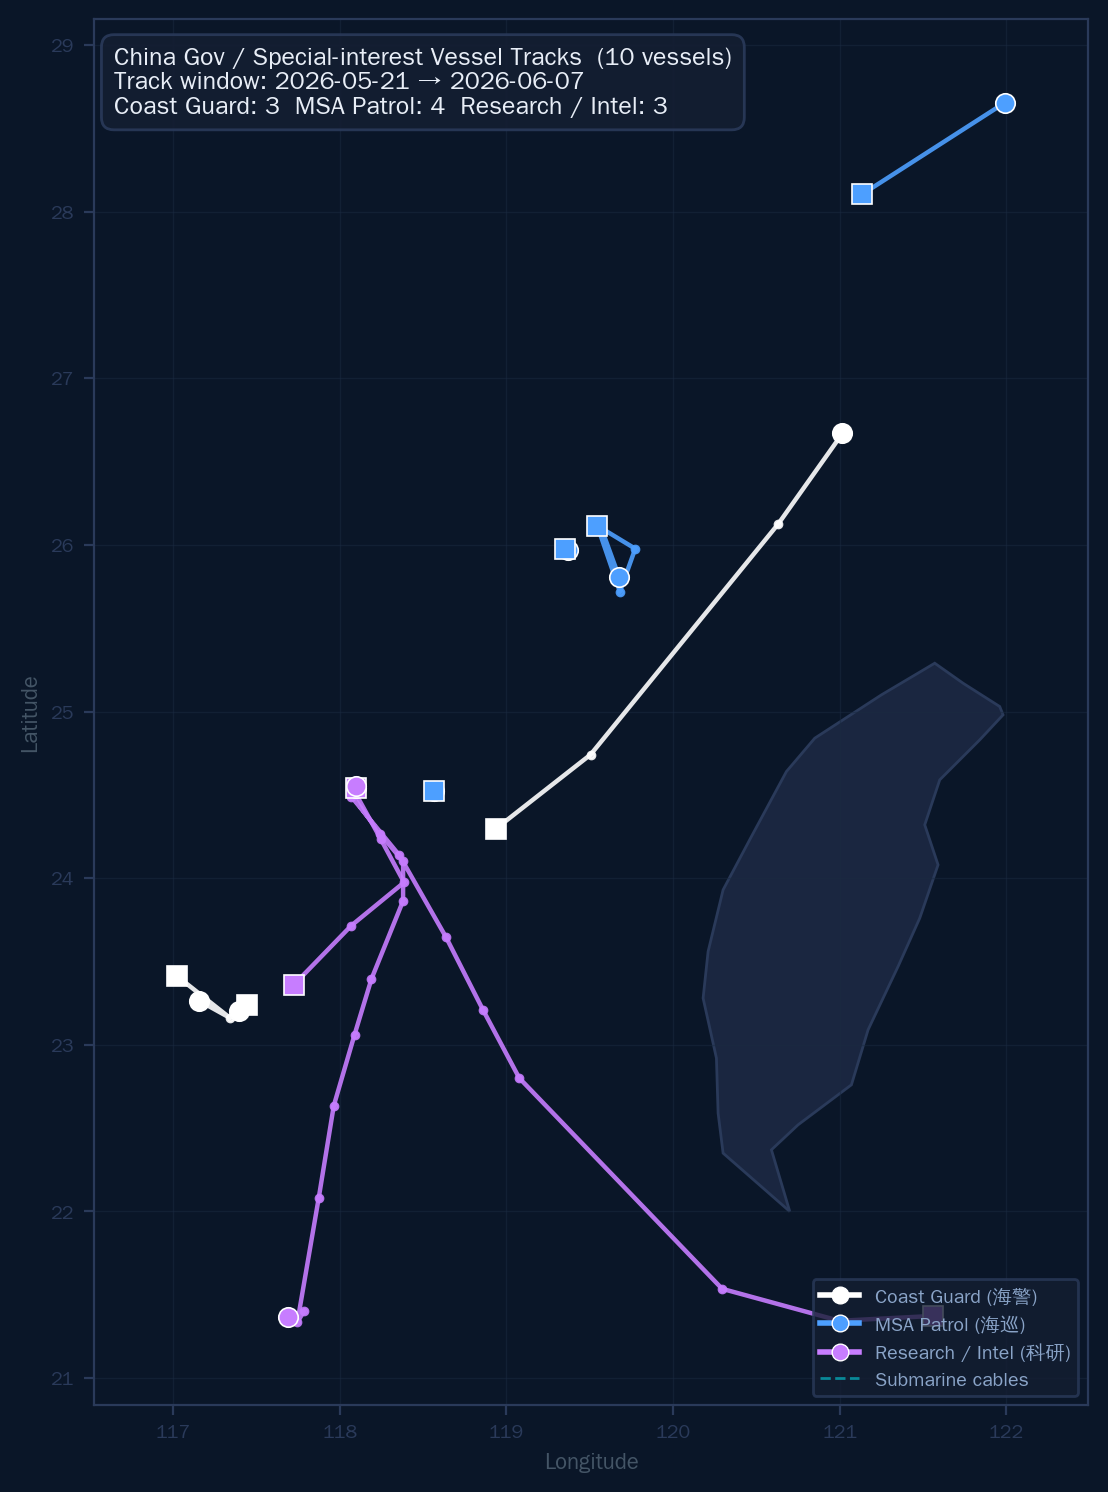
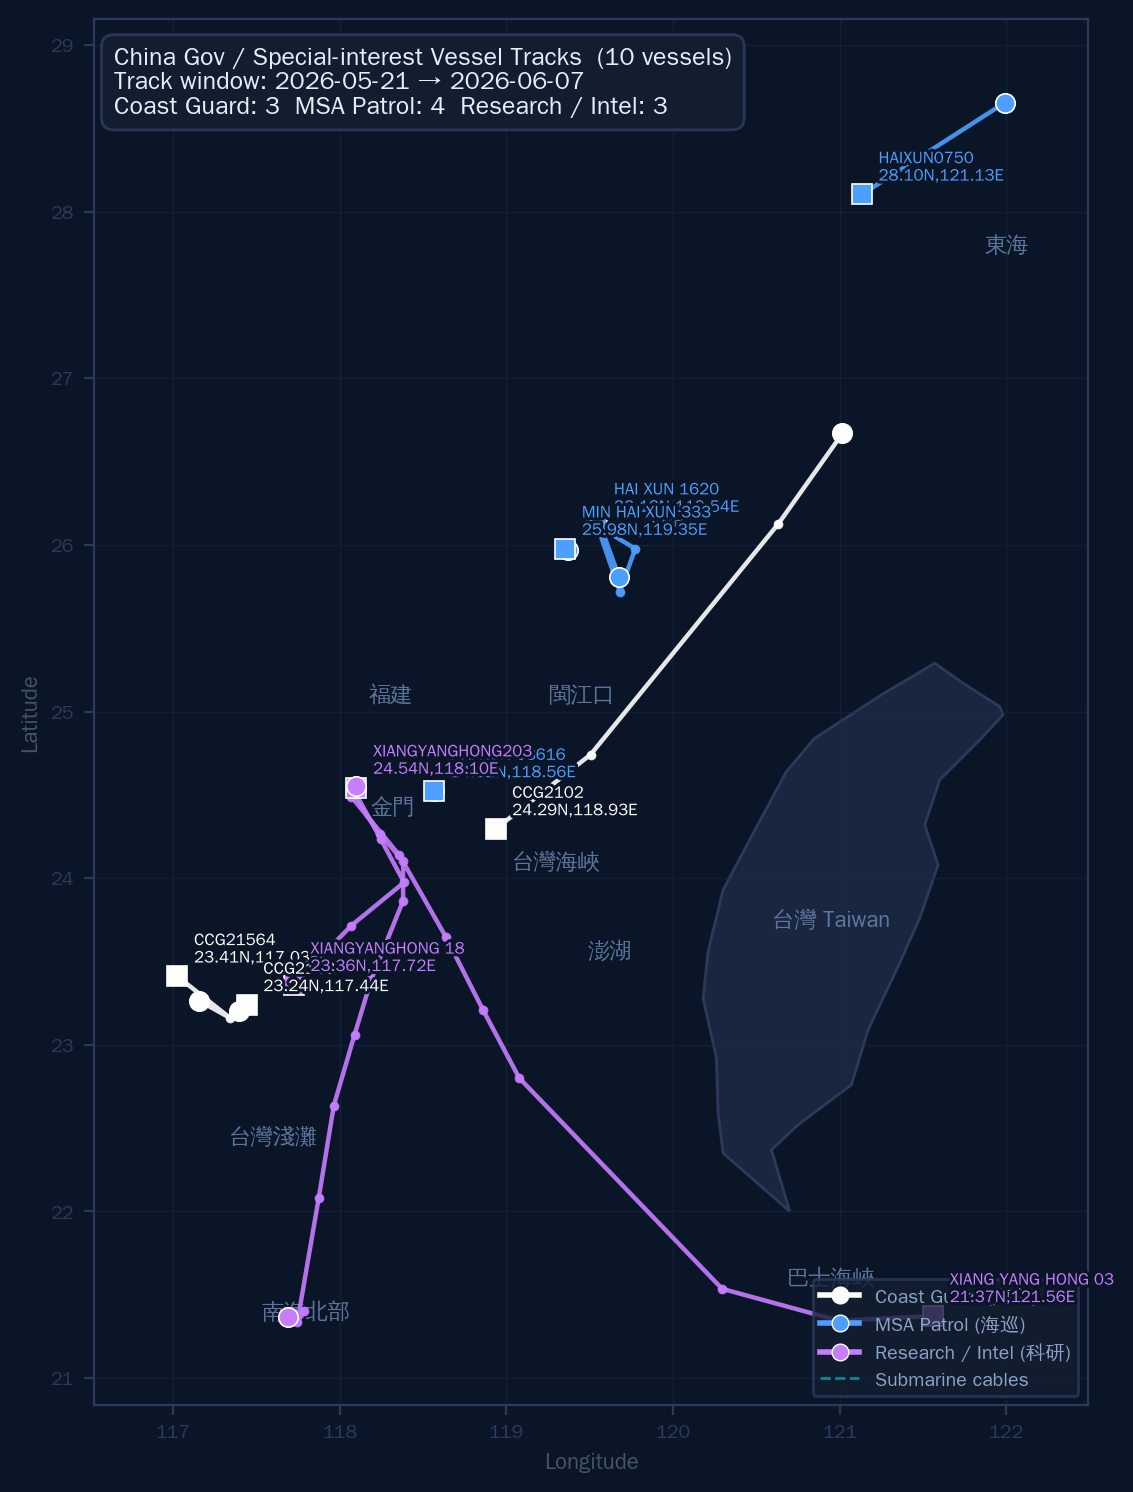
Annotate gov vessel track map with place names and per-track labels
- Add geographic reference labels (台灣/台灣海峽/金門/馬祖/澎湖/台灣淺灘/
  巴士海峽/閩江口/福建/東海/南海北部), drawn only when in current view.
- Label each track beside its endpoint with vessel name + latest position
  (lat/lon), with a dark stroke for readability; CHINACOASTGUARD→CCG shorten.

https://claude.ai/code/session_013oRYSLNKSfdo5UyR4HsdKX

diff --git a/src/plot_gov_vessel_tracks.py b/src/plot_gov_vessel_tracks.py
@@ -15,6 +15,7 @@ import argparse
 import glob
 import json
 import os
+import re
 import sys
 from pathlib import Path
 
@@ -54,6 +55,28 @@ CATEGORY_LABEL = {
     'research':   'Research / Intel (科研)',
 }
 CATEGORY_ORDER = ['coastguard', 'msa', 'rescue', 'research']
+
+# 地理參考點 (lat, lon, 標籤) — 只繪製落在當前視野內者
+LANDMARKS = [
+    (23.75, 120.95, '台灣 Taiwan'),
+    (24.10, 119.30, '台灣海峽'),
+    (24.43, 118.32, '金門'),
+    (26.16, 119.95, '馬祖'),
+    (23.57, 119.62, '澎湖'),
+    (22.45, 117.60, '台灣淺灘'),
+    (21.60, 120.95, '巴士海峽'),
+    (25.10, 119.45, '閩江口'),
+    (25.10, 118.30, '福建'),
+    (27.80, 122.00, '東海'),
+    (21.40, 117.80, '南海北部'),
+]
+
+
+def _short_name(name):
+    """縮短船名以利在航跡旁標示。"""
+    s = re.sub(r'\s+', ' ', (name or '').strip())
+    s = re.sub(r'CHINA\s*COAST\s*GUARD', 'CCG', s, flags=re.I)
+    return s or '?'
 
 
 def _load_cable_segments():
@@ -109,6 +132,7 @@ def plot_tracks(vessels, output_path):
     import matplotlib
     matplotlib.use('Agg')
     import matplotlib.pyplot as plt
+    import matplotlib.patheffects as pe
     from matplotlib.lines import Line2D
 
     # 啟用 CJK 字型（若系統有 WenQuanYi/Noto，否則退回 DejaVu）
@@ -149,7 +173,17 @@ def plot_tracks(vessels, output_path):
             ax.plot(clons, clats, color='#00f5ff', alpha=0.18, linewidth=0.7,
                     linestyle='--', zorder=2)
 
-    # 逐艘航跡（依子類別著色）
+    # 地理參考地名（僅繪製視野內者）
+    for la, lo, label in LANDMARKS:
+        if lat_min <= la <= lat_max and lon_min <= lo <= lon_max:
+            ax.text(lo, la, label, fontsize=8, color='#6b86b0',
+                    style='italic', ha='center', va='center', zorder=2,
+                    alpha=0.85)
+
+    # 描邊樣式，讓航跡旁的船名在暗底上清晰可讀
+    stroke = [pe.withStroke(linewidth=2.2, foreground='#0a1628')]
+
+    # 逐艘航跡（依子類別著色，並在終點旁標示船名 + 位置）
     for v in vessels:
         color = CATEGORY_COLOR.get(v['category'], '#888888')
         lats = [p['lat'] for p in v['track']]
@@ -160,6 +194,12 @@ def plot_tracks(vessels, output_path):
                 markeredgecolor='white', markeredgewidth=0.6)
         ax.plot(lons[-1], lats[-1], 's', color=color, markersize=7, zorder=4,
                 markeredgecolor='white', markeredgewidth=0.6)
+        # 航跡旁標示：船名 + 最新位置座標（終點＝方形標記）
+        label = f"{_short_name(v['name'])}\n{lats[-1]:.2f}N,{lons[-1]:.2f}E"
+        ax.annotate(label, (lons[-1], lats[-1]),
+                    textcoords='offset points', xytext=(6, 5),
+                    fontsize=6, color=color, zorder=6,
+                    path_effects=stroke)
 
     # 資訊框
     spans = [p.get('t', '') for v in vessels for p in v['track'] if p.get('t')]